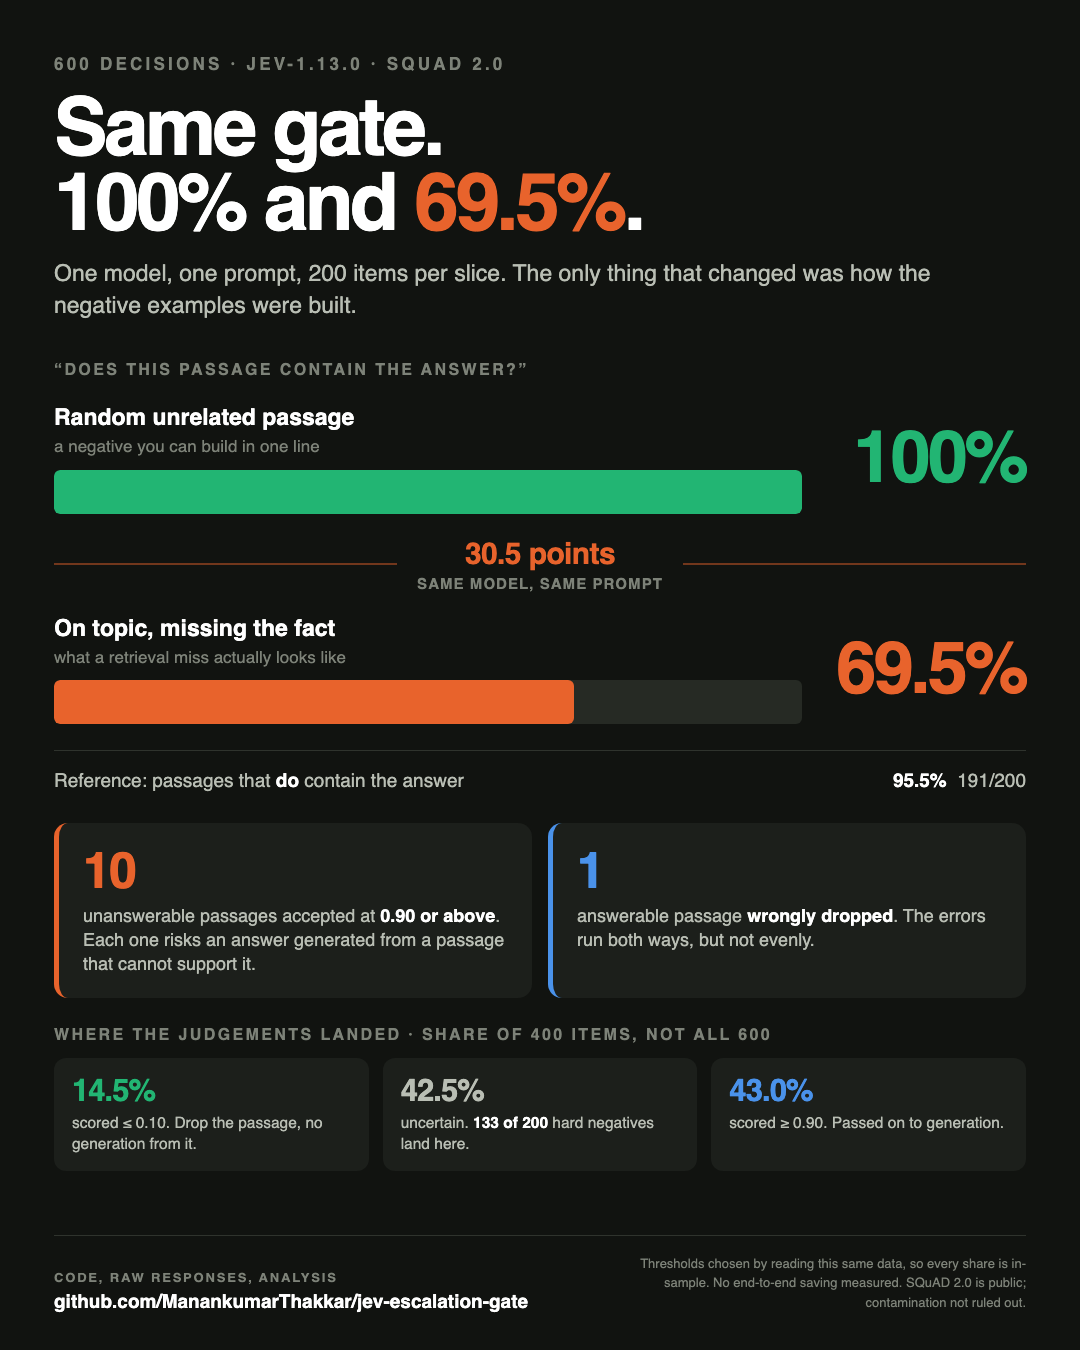
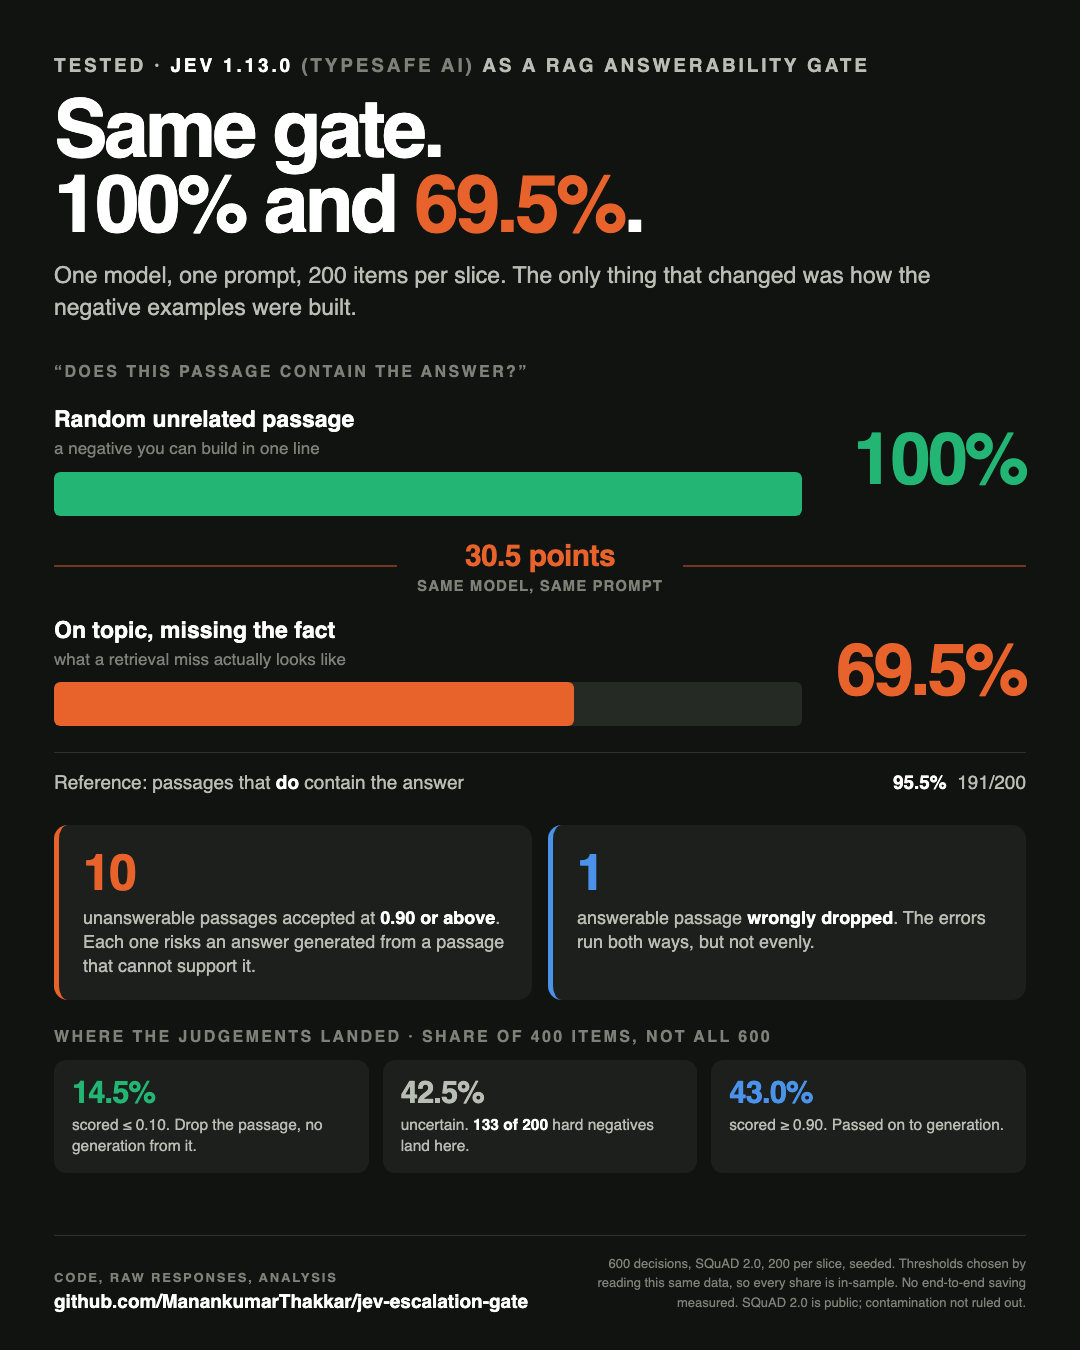
Say what was tested at the top; move sample metadata to the foot
The model identity sat at 17px grey inside a metadata string, so a reader could
finish the image without knowing what had been tested. The top line now names
Jev 1.13.0 and TypeSafe AI and says what role it was put in, at a size that
reads. Decision count and dataset move to the footer, where methodology belongs.

Deliberately not larger than that. The finding is about how the negative
examples were built and would likely reproduce with any small classifier;
making the vendor the visual subject would turn an independent case study into
something that reads as sponsored.

diff --git a/linkedin/figure.html b/linkedin/figure.html
@@ -7,7 +7,10 @@
   "Segoe UI",Roboto,Helvetica,Arial,sans-serif;font-feature-settings:"tnum" 1;
   display:flex;justify-content:center}
  .stage{width:1080px;height:1350px;padding:54px 54px 38px;display:flex;flex-direction:column}
- .kick{font-size:17px;letter-spacing:.19em;text-transform:uppercase;color:var(--ink3);font-weight:750}
+ .kick{font-size:19px;letter-spacing:.15em;text-transform:uppercase;color:var(--ink2);
+   font-weight:750}
+ .kick b{color:var(--ink)}
+ .kick em{font-style:normal;color:var(--ink3)}
  h1{font-size:80px;line-height:.94;font-weight:780;letter-spacing:-.043em;margin:16px 0 0}
  h1 .b{color:var(--bad)}
  .dek{font-size:23px;color:var(--ink2);line-height:1.36;margin-top:18px;max-width:900px}
@@ -56,7 +59,7 @@
  .cav{font-size:13px;color:var(--ink3);line-height:1.5;text-align:right;max-width:430px}
 </style></head><body><div class="stage">
 
- <div class="kick">600 decisions &middot; jev-1.13.0 &middot; SQuAD 2.0</div>
+ <div class="kick">Tested &middot; <b>Jev 1.13.0</b> <em>(TypeSafe AI)</em> as a RAG answerability gate</div>
  <h1>Same gate.<br>100% and <span class="b">69.5%</span>.</h1>
  <div class="dek">One model, one prompt, 200 items per slice. The only thing that changed
  was how the negative examples were built.</div>
@@ -117,8 +120,9 @@
 
  <footer>
   <div><div class="rlab">Code, raw responses, analysis</div><div class="repo">github.com/ManankumarThakkar/jev-escalation-gate</div></div>
-  <div class="cav">Thresholds chosen by reading this same data, so every share is in-sample.
-  No end-to-end saving measured. SQuAD 2.0 is public; contamination not ruled out.</div>
+  <div class="cav">600 decisions, SQuAD 2.0, 200 per slice, seeded. Thresholds chosen by
+  reading this same data, so every share is in-sample. No end-to-end saving measured.
+  SQuAD 2.0 is public; contamination not ruled out.</div>
  </footer>
 
 </div></body></html>

diff --git a/src/make_figure.py b/src/make_figure.py
@@ -75,7 +75,10 @@ def main() -> int:
   "Segoe UI",Roboto,Helvetica,Arial,sans-serif;font-feature-settings:"tnum" 1;
   display:flex;justify-content:center}}
  .stage{{width:1080px;height:1350px;padding:54px 54px 38px;display:flex;flex-direction:column}}
- .kick{{font-size:17px;letter-spacing:.19em;text-transform:uppercase;color:var(--ink3);font-weight:750}}
+ .kick{{font-size:19px;letter-spacing:.15em;text-transform:uppercase;color:var(--ink2);
+   font-weight:750}}
+ .kick b{{color:var(--ink)}}
+ .kick em{{font-style:normal;color:var(--ink3)}}
  h1{{font-size:80px;line-height:.94;font-weight:780;letter-spacing:-.043em;margin:16px 0 0}}
  h1 .b{{color:var(--bad)}}
  .dek{{font-size:23px;color:var(--ink2);line-height:1.36;margin-top:18px;max-width:900px}}
@@ -124,7 +127,7 @@ def main() -> int:
  .cav{{font-size:13px;color:var(--ink3);line-height:1.5;text-align:right;max-width:430px}}
 </style></head><body><div class="stage">
 
- <div class="kick">{d['n_all']} decisions &middot; {d['model']} &middot; SQuAD 2.0</div>
+ <div class="kick">Tested &middot; <b>Jev {d['model'].split('-')[-1]}</b> <em>(TypeSafe AI)</em> as a RAG answerability gate</div>
  <h1>Same gate.<br>100% and <span class="b">{hard_pct:.1f}%</span>.</h1>
  <div class="dek">One model, one prompt, 200 items per slice. The only thing that changed
  was how the negative examples were built.</div>
@@ -185,8 +188,9 @@ def main() -> int:
 
  <footer>
   <div><div class="rlab">Code, raw responses, analysis</div><div class="repo">{REPO_URL}</div></div>
-  <div class="cav">Thresholds chosen by reading this same data, so every share is in-sample.
-  No end-to-end saving measured. SQuAD 2.0 is public; contamination not ruled out.</div>
+  <div class="cav">{d['n_all']} decisions, SQuAD 2.0, 200 per slice, seeded. Thresholds chosen by
+  reading this same data, so every share is in-sample. No end-to-end saving measured.
+  SQuAD 2.0 is public; contamination not ruled out.</div>
  </footer>
 
 </div></body></html>"""
